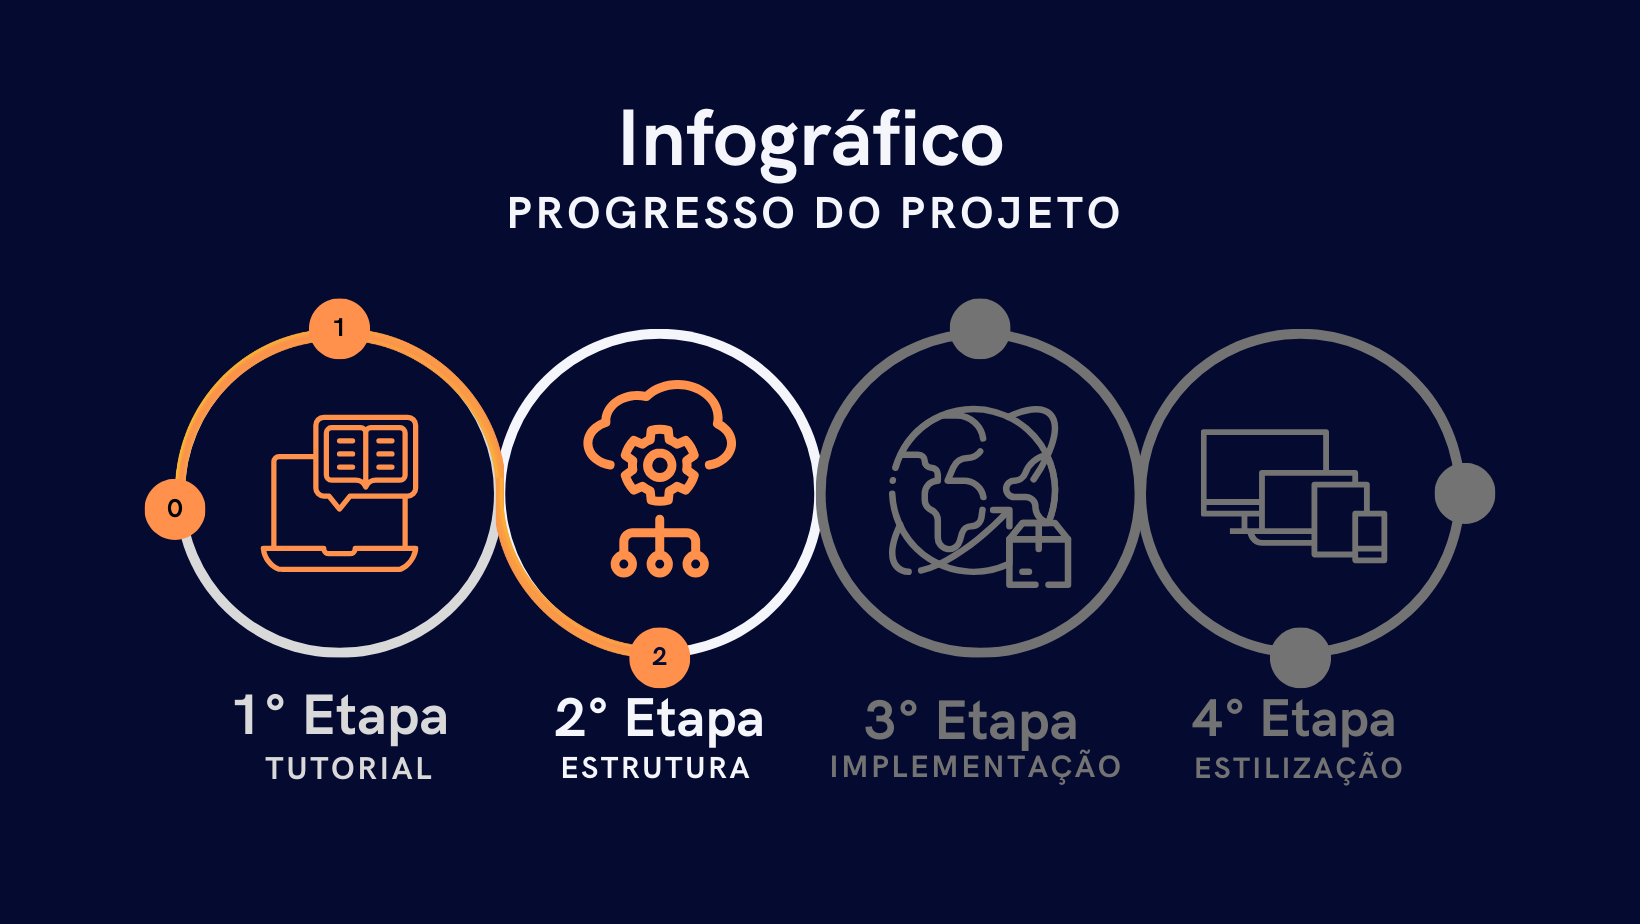
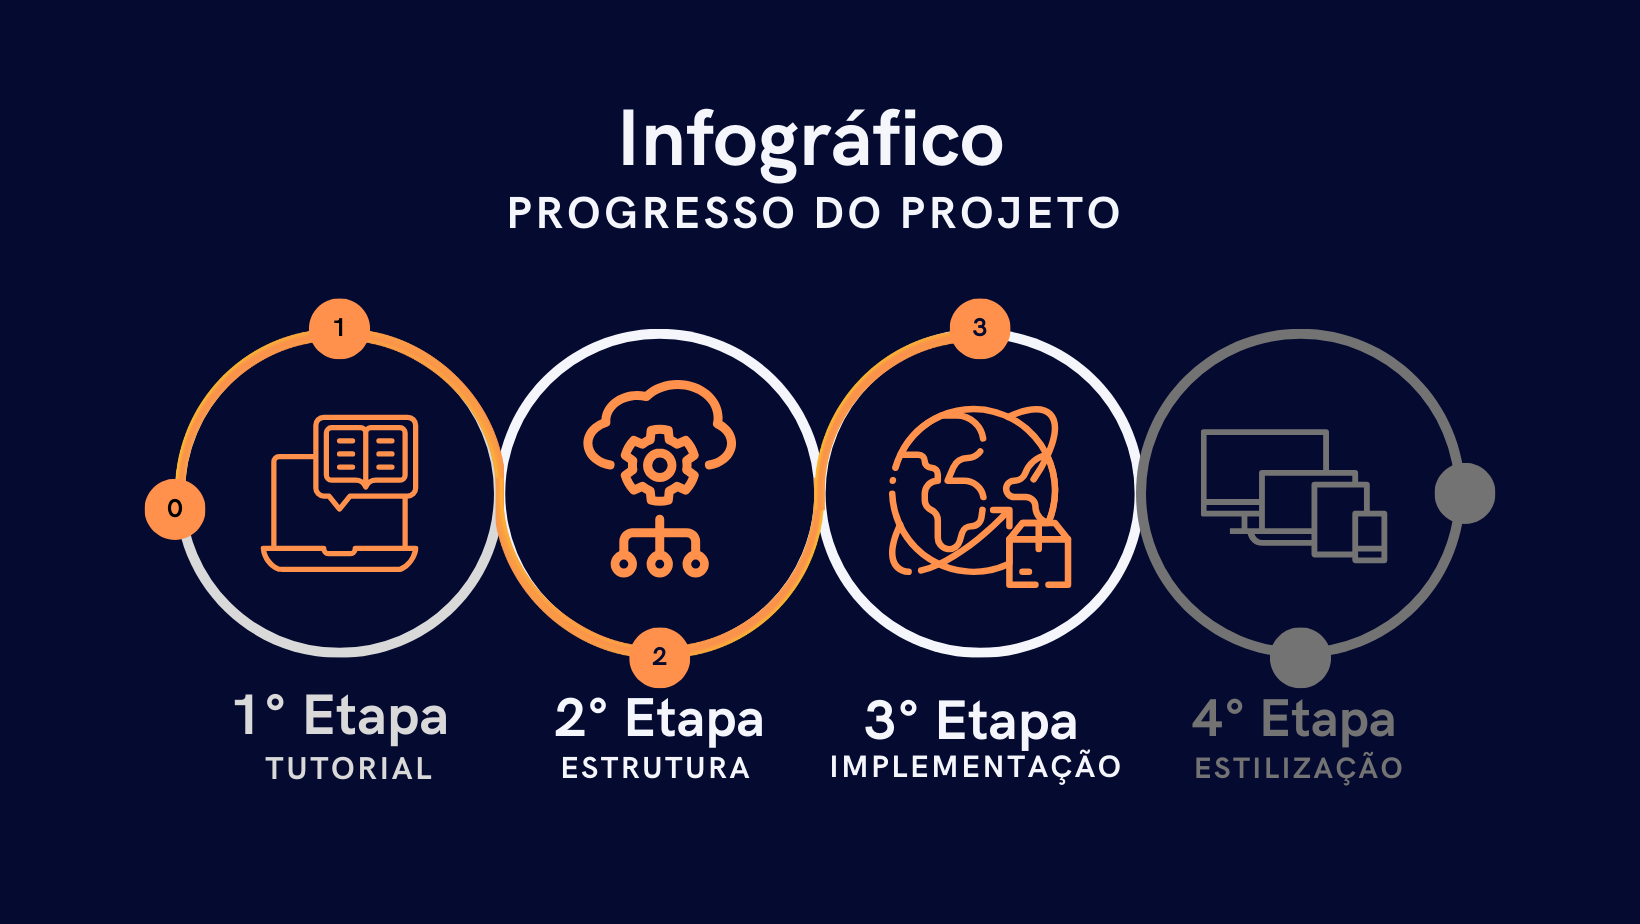
Atualizado README.md

diff --git a/README.md b/README.md
@@ -22,7 +22,7 @@ Este Projeto segue o que consta no tutorial disponível no site do prório Flask
 ## 🧩 Etapas do projeto:
 * A primeira etapa do projeto é concluir o blog com suas funcionalidades seguindo o tutorial.
 * A segunda etapa consiste em estruturar o projeto e o repositório para distribuição e teste do projeto. 
-* A terceira etapa consiste em implementar o projeto em um serviço de hospedagem web tornando-o acessível.
+* A terceira etapa consiste em preparar o projeto para implementação em um serviço de hospedagem web tornando-o acessível.
 * Concluído a terceira etapa inicia-se a estilização do projeto de forma mais autonoma com foco em responsividade e explorando novas possibilidades.
 
 ![Infográfico](Midia/Img/Infográfico.png)
@@ -76,6 +76,39 @@ Você verá uma saída semelhante a esta:
 
 Visite http://127.0.0.1:5000/ em um navegador e você deverá ver o aplicativo em execução.
 
+### 9 - Teste a Aplicação:
+
+Você usará [pytest](https://pytest.readthedocs.io/) e [coverage](https://coverage.readthedocs.io/) para testar e medir seu código. Instale os dois:
+
+    * pip install pytest coverage
+
+Para executar os testes, use ocomando pytest. Ele encontrará e executará todas as funções de teste:
+
+    * pytest
+
+Você deve receber uma resposta semelhante a esta:
+
+![Imagem de execução de teste](<Midia/Img/Captura de tela pytest.png>)
+
+Se algum teste falhar, o pytest mostrará o erro que foi gerado. 
+
+Você pode executar o seguinte comando para obter uma lista de cada função de teste em vez de pontos.
+
+    * pytest -v
+
+Para medir a cobertura de código dos seus testes, use o comando coverage para executar pytest em vez de executá-lo diretamente.
+
+    * coverage run -m pytest
+
+Ou utilize o coverage para visualizar um relatório simples no terminal
+
+    * coverage report
+
+Você deve obter uma resposta semelhante a esta:
+
+![Imagem do relatório de cobertura de teste ](<Midia/Img/Captura de tela cobertura pytest.png>)
+
+
 ###
 ## 🛠 Construído com
 
@@ -104,8 +137,9 @@ As tecnologias utilizadas neste projeto:
 * Conte a outras pessoas sobre este projeto 📢;
 * Convide alguém da equipe para uma cerveja 🍺;
 * Um agradecimento publico 🫂;
-* etc.
+* Um insentivo financeiro .
 
+![QR CODE para pix](<Midia/Img/QRCode Pix.png>)
 
 ---
 Editado por [Jhone Antonio](www.linkedin.com/in/antoniojhone)
